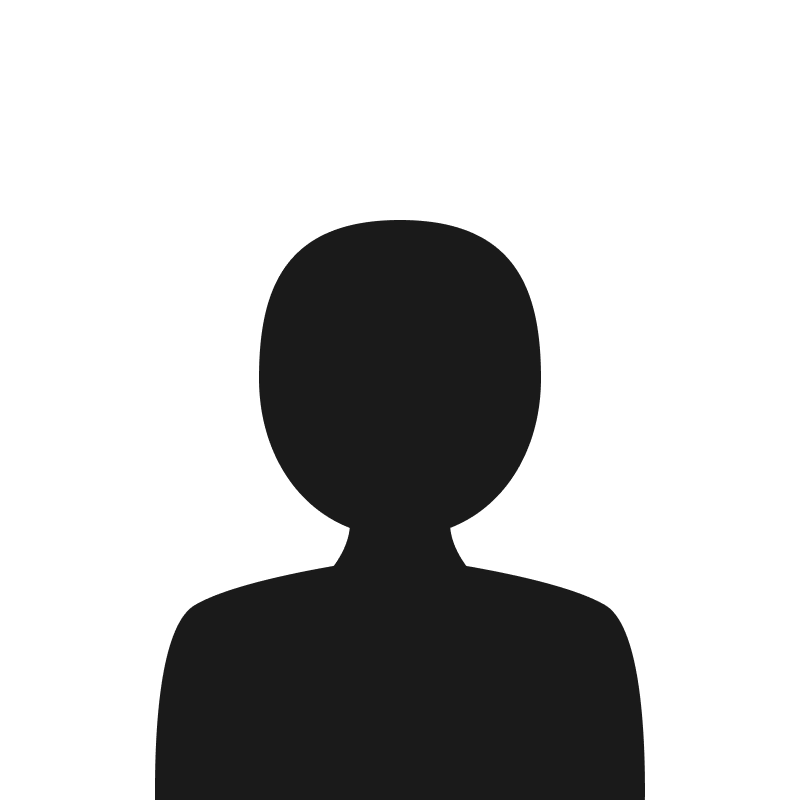
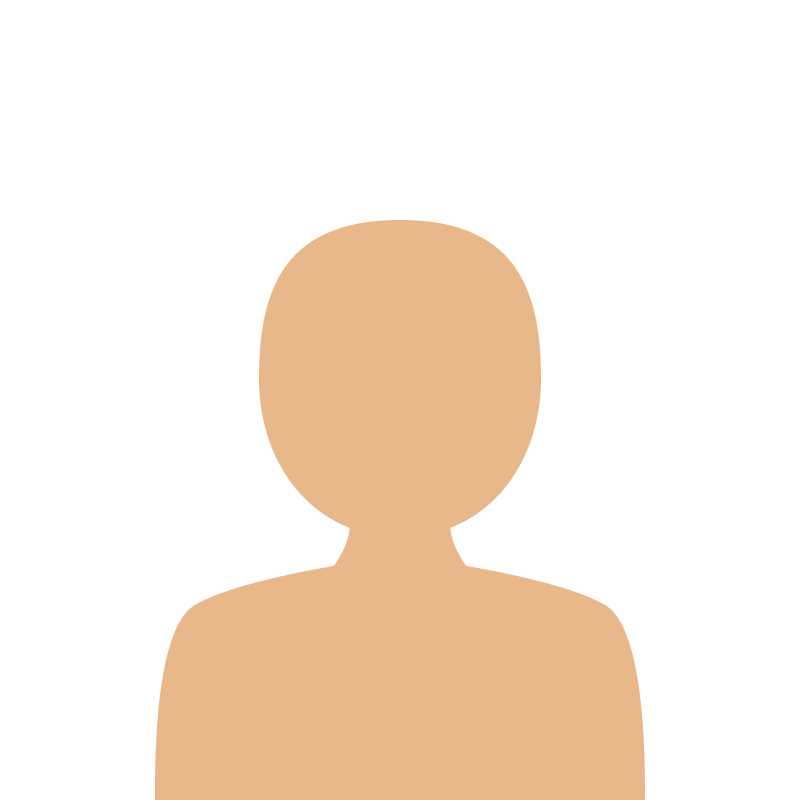
Skin color fix

Changed region(s): [[0.1875, 0.25, 0.8125, 1.0]]

diff --git a/app.js b/app.js
@@ -1213,32 +1213,56 @@ async function saveAvatar(btn){
 const ASSET_BASE = '/assets/character';
 let CHAR_MANIFEST = null;
 
-// CSS filter to recolour a #1A1A1A black image to a target hex colour
+// Recolour a black (#1A1A1A) hair image to a target hex colour
+// Uses a sepia→hue-rotate→saturate→brightness chain which works reliably on dark sources
 function hexToFilter(hex){
-  // Parse hex
-  const r=parseInt(hex.slice(1,3),16)/255;
-  const g=parseInt(hex.slice(3,5),16)/255;
-  const b=parseInt(hex.slice(5,7),16)/255;
-  // Convert to HSL
-  const max=Math.max(r,g,b),min=Math.min(r,g,b),d=max-min;
+  if(!hex||hex==='#1A1A1A') return 'brightness(0.12)'; // pure dark, no shift needed
+  const r=parseInt(hex.slice(1,3),16);
+  const g=parseInt(hex.slice(3,5),16);
+  const b=parseInt(hex.slice(5,7),16);
+  // Convert RGB to HSL
+  const rf=r/255,gf=g/255,bf=b/255;
+  const max=Math.max(rf,gf,bf),min=Math.min(rf,gf,bf),d=max-min;
   let h=0,s=0,l=(max+min)/2;
-  if(d){
+  if(d>0){
     s=d/(1-Math.abs(2*l-1));
-    if(max===r) h=((g-b)/d+6)%6;
-    else if(max===g) h=(b-r)/d+2;
-    else h=(r-g)/d+4;
-    h=Math.round(h*60);
+    if(max===rf) h=((gf-bf)/d+6)%6;
+    else if(max===gf) h=(bf-rf)/d+2;
+    else h=(rf-gf)/d+4;
+    h=h*60;
   }
-  s=Math.round(s*100); l=Math.round(l*100);
-  // Build filter chain: sepia gives a warm base, then hue-rotate + saturate + brightness
-  const bri = Math.round(l*2.2);
-  return `sepia(1) saturate(${s*3}%) hue-rotate(${h-30}deg) brightness(${bri}%)`;
+  // Filter chain: start from near-black source
+  // sepia(1) gives a warm brown base at hue ~30
+  // hue-rotate shifts from that base to target hue
+  const hueShift = Math.round(h - 30); // 30 = sepia base hue
+  const sat      = Math.round(s * 750); // amplify saturation significantly
+  const bri      = Math.round(l * 220); // brightness from lightness
+  return `brightness(0) sepia(1) hue-rotate(${hueShift}deg) saturate(${sat}%) brightness(${bri}%)`;
 }
 
-// Skin recolour: source image is drawn in #E8B88A, shift to target
+// Recolour a #E8AA7A skin image to a target skin tone hex
+// Works by adjusting hue-rotate + brightness relative to the source mid-tone
 function skinFilter(targetHex){
-  // We treat skin the same as hair — just shift hue/sat/brightness
-  return hexToFilter(targetHex);
+  if(!targetHex) return '';
+  const SRC_H = 25; // hue of #E8AA7A (warm orange-skin)
+  const SRC_L = 69; // lightness% of #E8AA7A
+  const r=parseInt(targetHex.slice(1,3),16);
+  const g=parseInt(targetHex.slice(3,5),16);
+  const b=parseInt(targetHex.slice(5,7),16);
+  const rf=r/255,gf=g/255,bf=b/255;
+  const max=Math.max(rf,gf,bf),min=Math.min(rf,gf,bf),d=max-min;
+  let h=0,s=0,l=(max+min)/2;
+  if(d>0){
+    s=d/(1-Math.abs(2*l-1));
+    if(max===rf) h=((gf-bf)/d+6)%6;
+    else if(max===gf) h=(bf-rf)/d+2;
+    else h=(rf-gf)/d+4;
+    h=h*60;
+  }
+  const hueShift = Math.round(h - SRC_H);
+  const briShift = Math.round((l*100/SRC_L)*100);
+  const satShift = Math.round(s*120);
+  return `sepia(0.3) hue-rotate(${hueShift}deg) saturate(${satShift}%) brightness(${briShift}%)`;
 }
 
 async function loadManifest(){